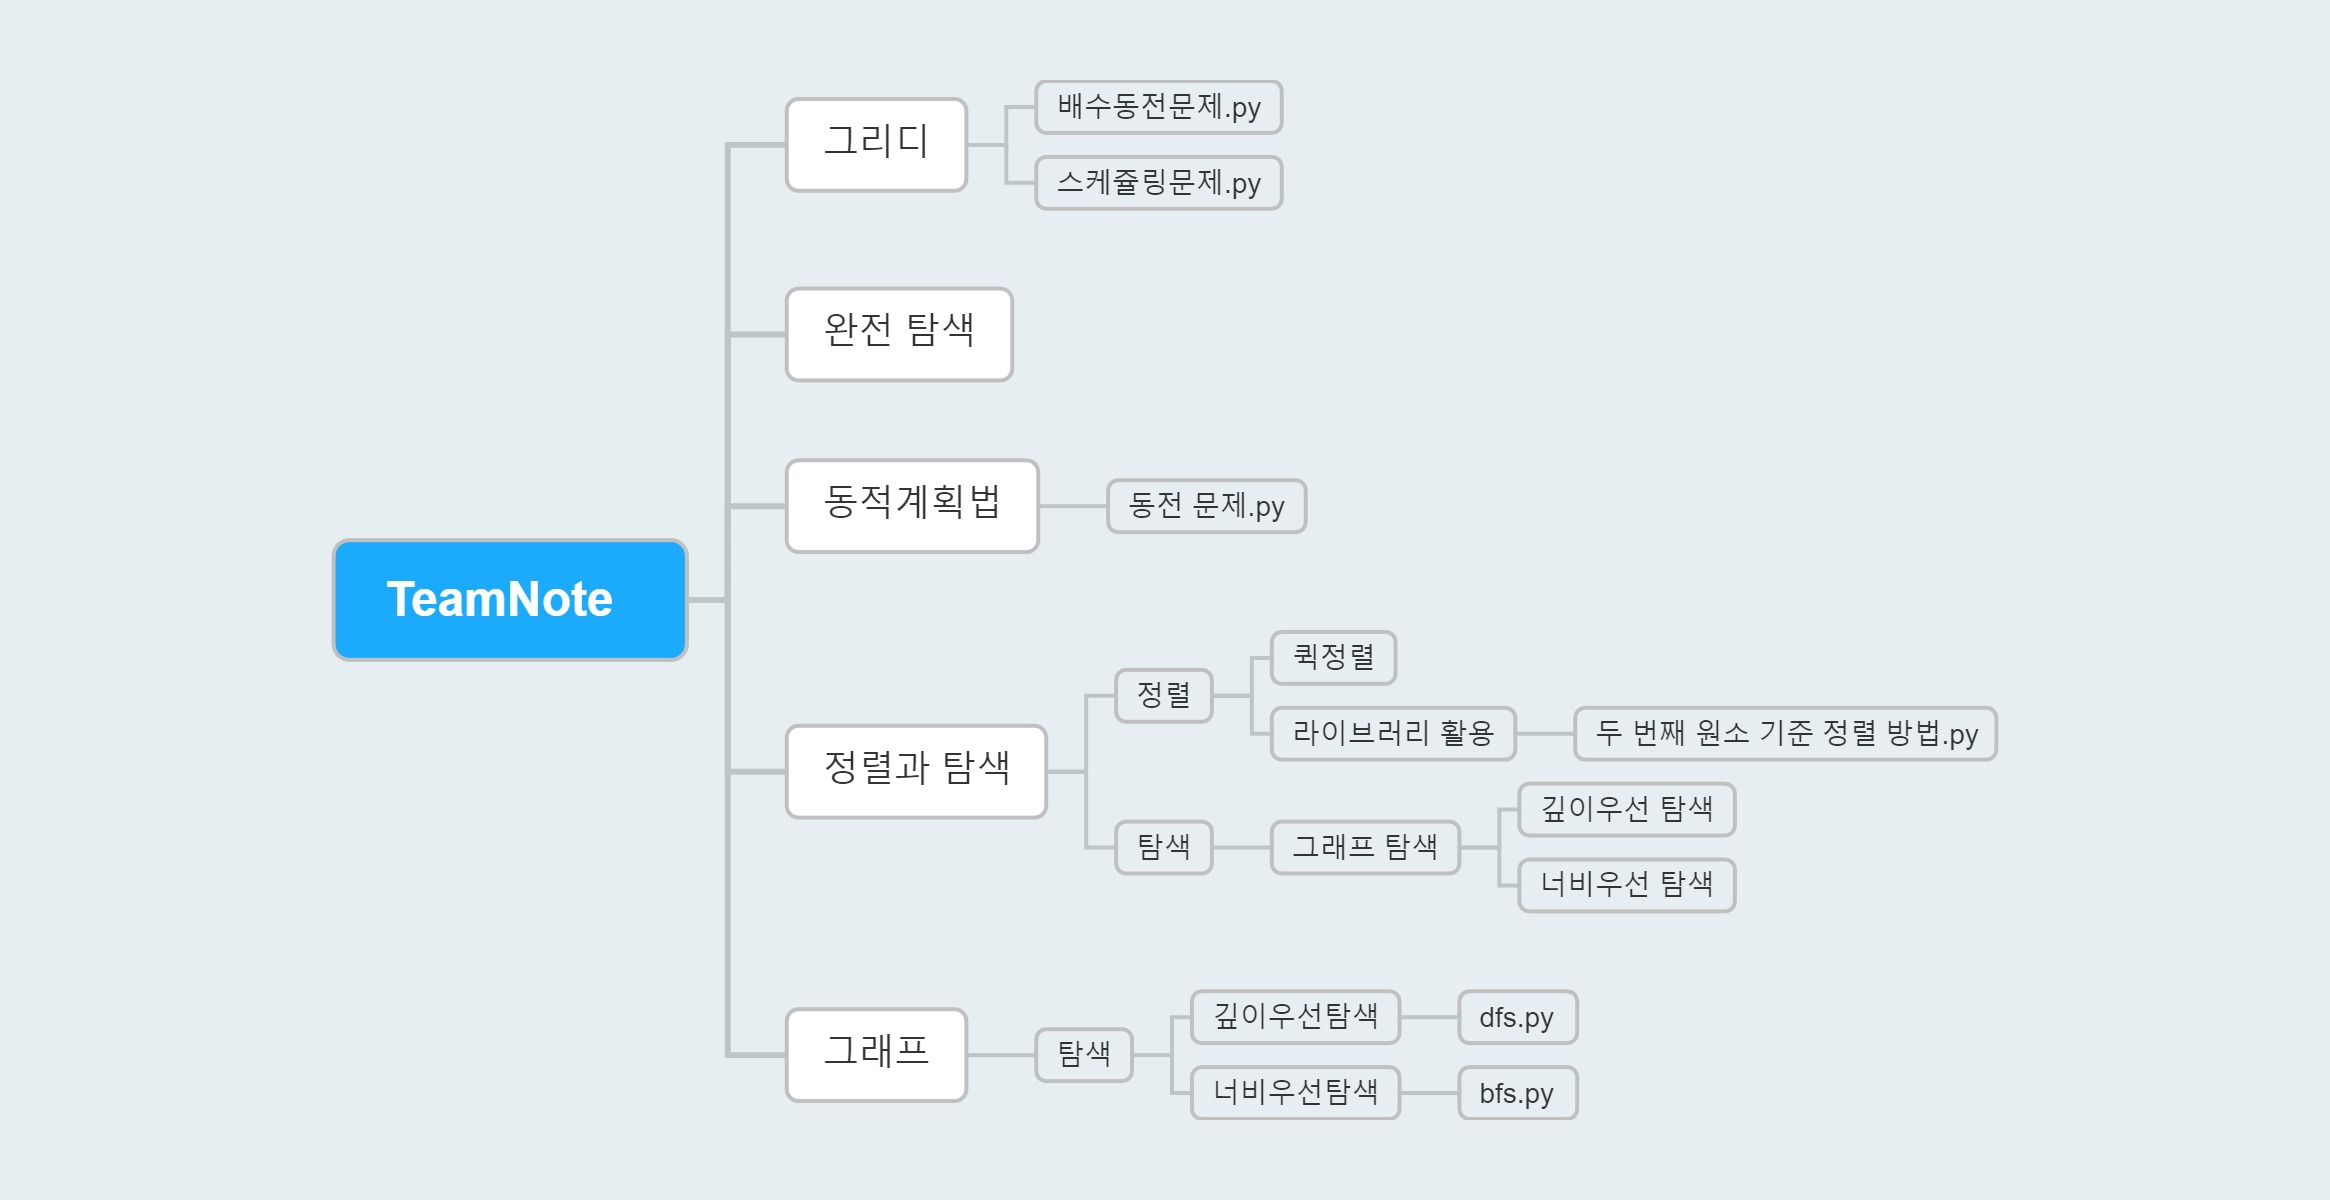
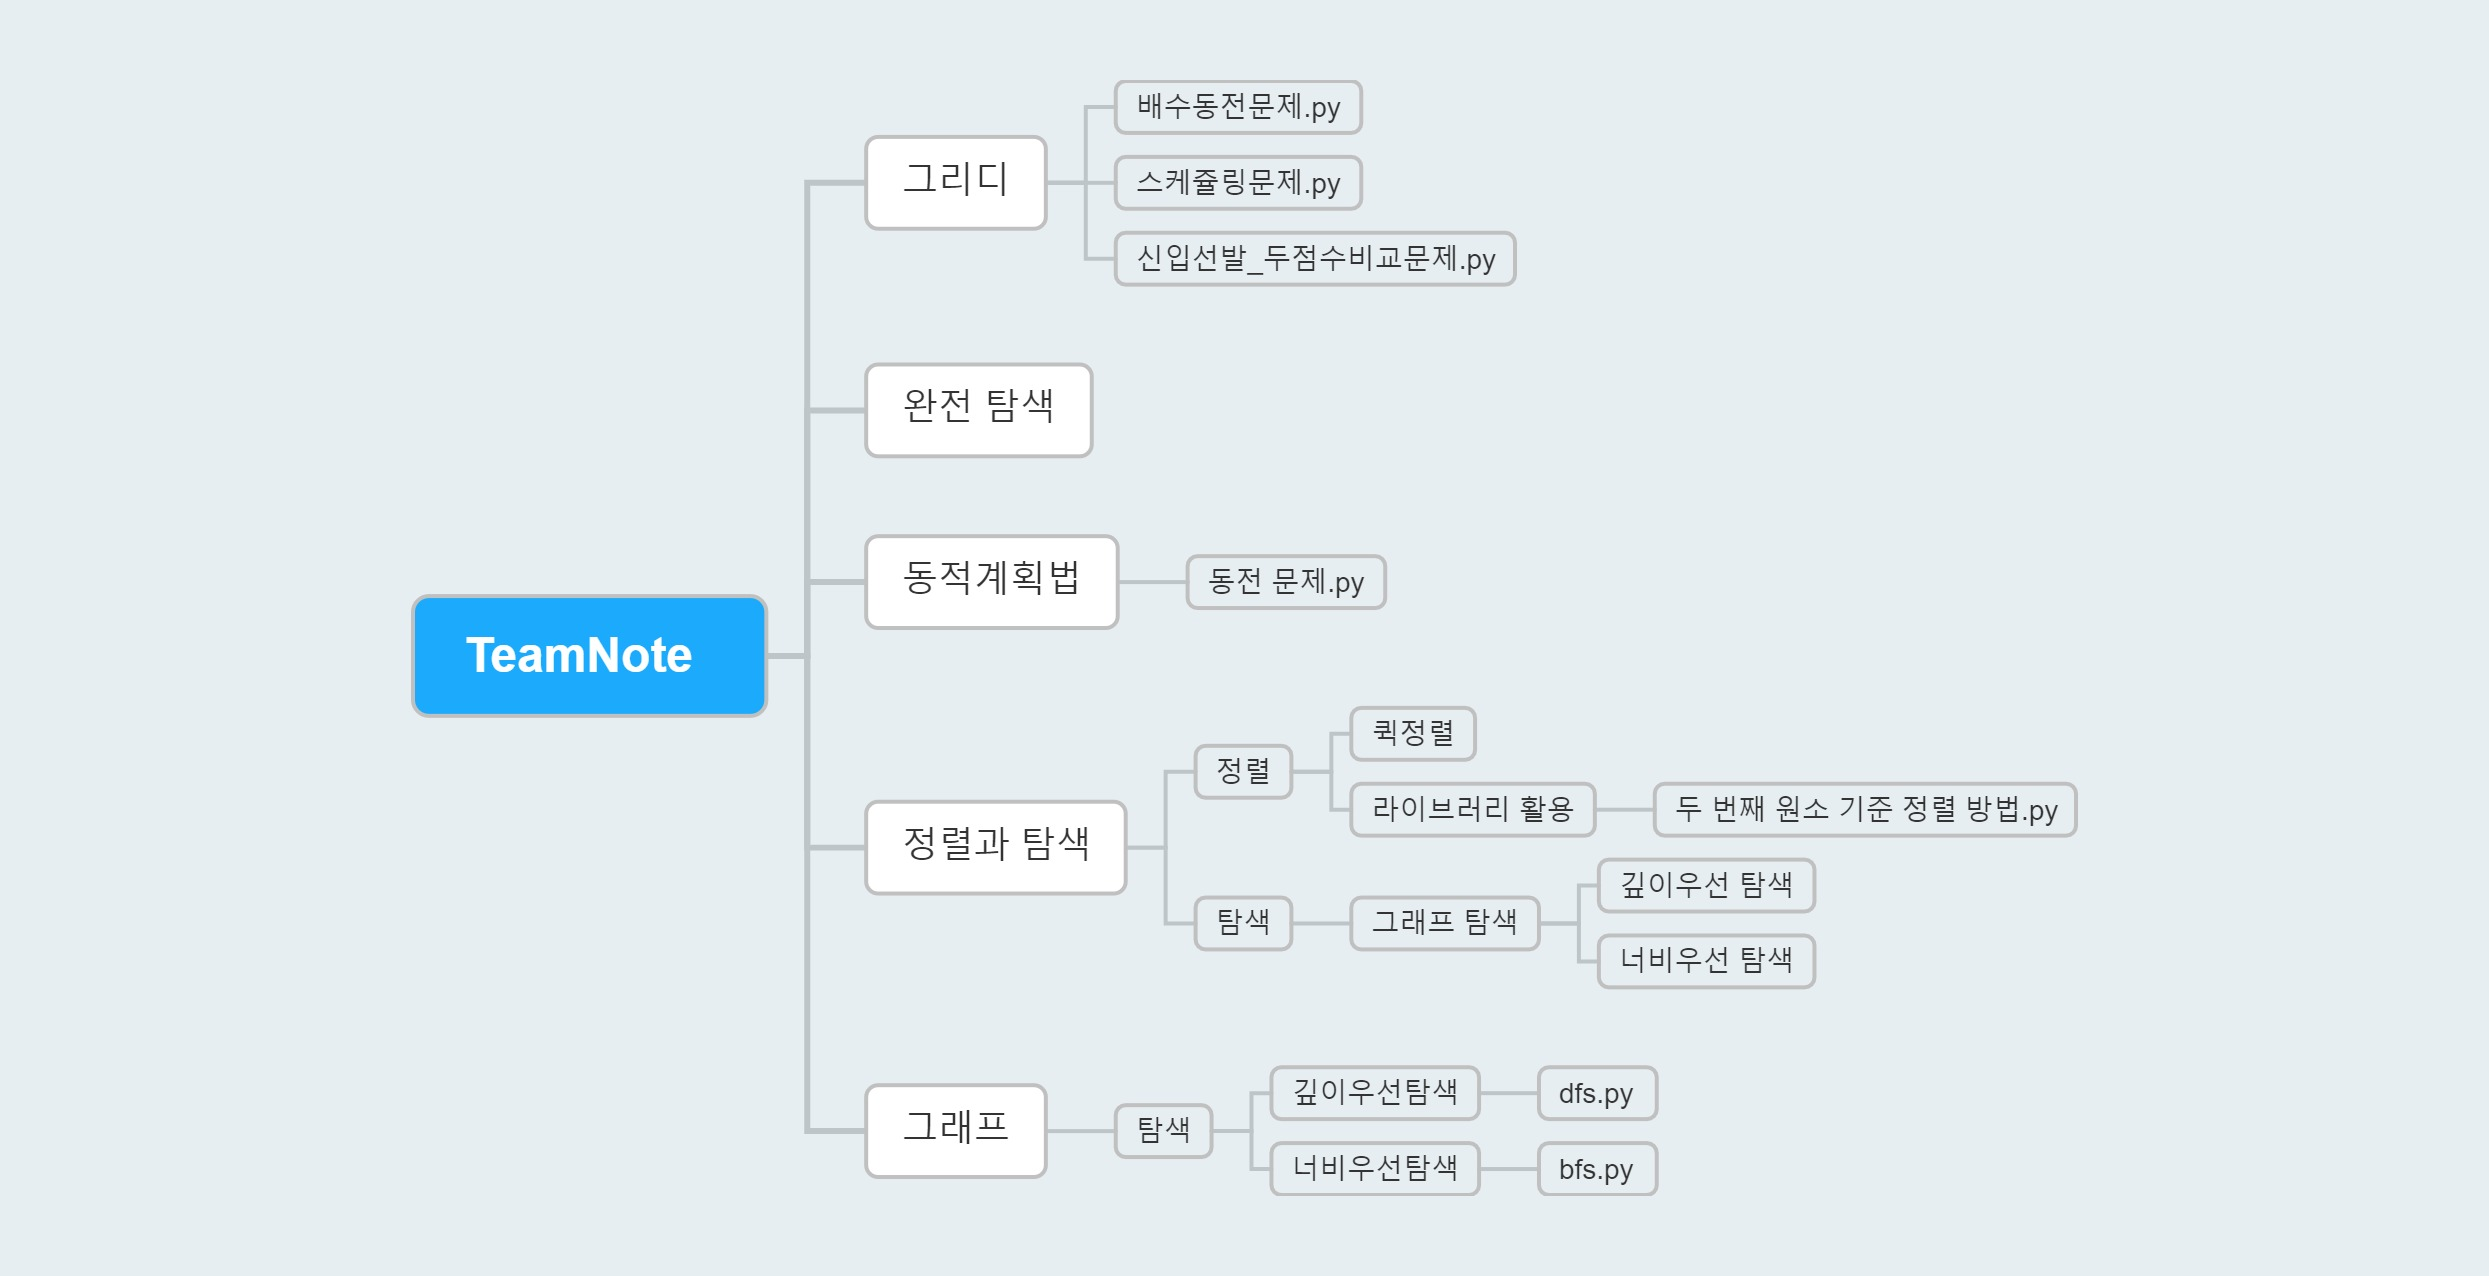
신입선발문제

Changed region(s): [[0.1236, 0.0617, 0.8652, 0.9558]]

diff --git a/그리디/신입선발_두점수비교문제.py b/그리디/신입선발_두점수비교문제.py
@@ -1,0 +1,24 @@
+#문제: 어떤 지원자 A의 성적이 다른 어떤 지원자 B의 성적에 비해 서류 심사 결과와 면접 성적이 모두 떨어진다면 A는 결코 선발되지 않는다.
+#아이디어 찾기: 그래프로 그려보자
+T = int(input())
+for _ in range(T):
+    N = int(input())
+    lst = []
+    for _ in range(N):
+        lst.append(tuple(map(int, input().split())))
+
+    lst.sort()
+    # 서류 점수 1등 x0는 합격하고 x0보다 면접 점수가 낮은 사람은 모두 탈락한다.
+    # x0보다 면접 점수가 높은 사람 중 서류 점수가 가장 높은 사람 x1은 합격하고 x1보다 면접 점수가 낮은 사람은 모두 탈락한다.
+    # x1보다 면접 점수가 높은 사람 중 서류 점수가 가장 높은 사람 x2는 합격하고 x2보다 면접 점수가 낮은 사람은 모두 탈락한다.
+    # ...
+    min = lst[0][1] # x1의 면접 점수
+    cnt = 1
+    for x in lst[1:N]:
+        if min > x[1]:
+            min = x[1]
+            cnt += 1
+
+    print(cnt)
+
+
